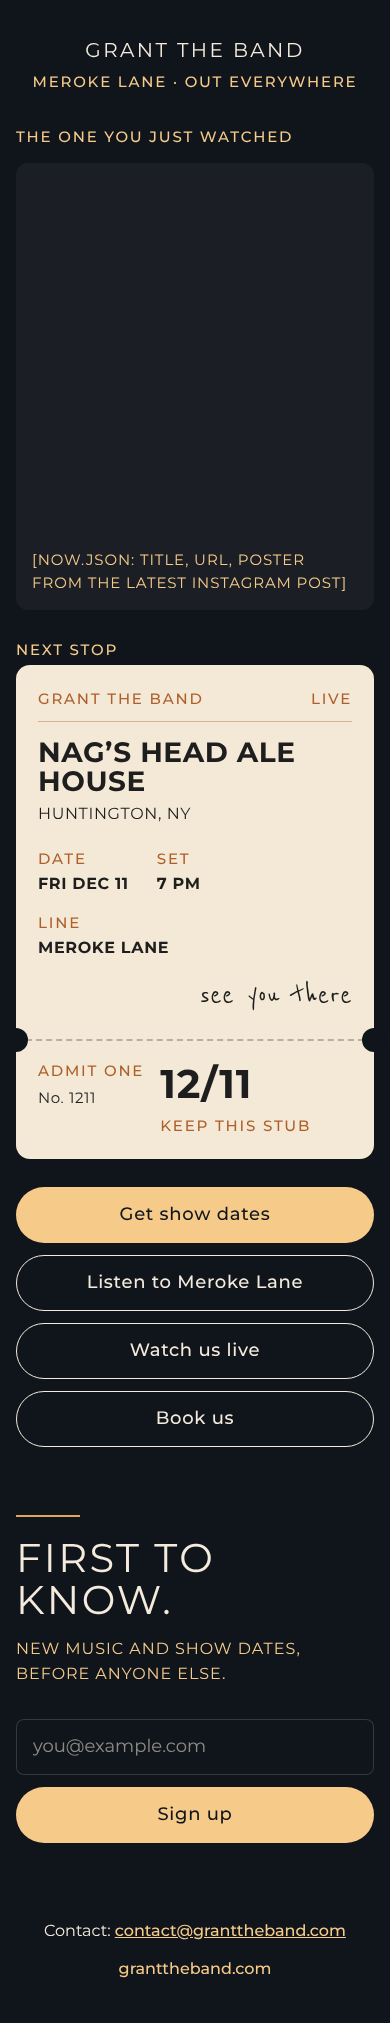
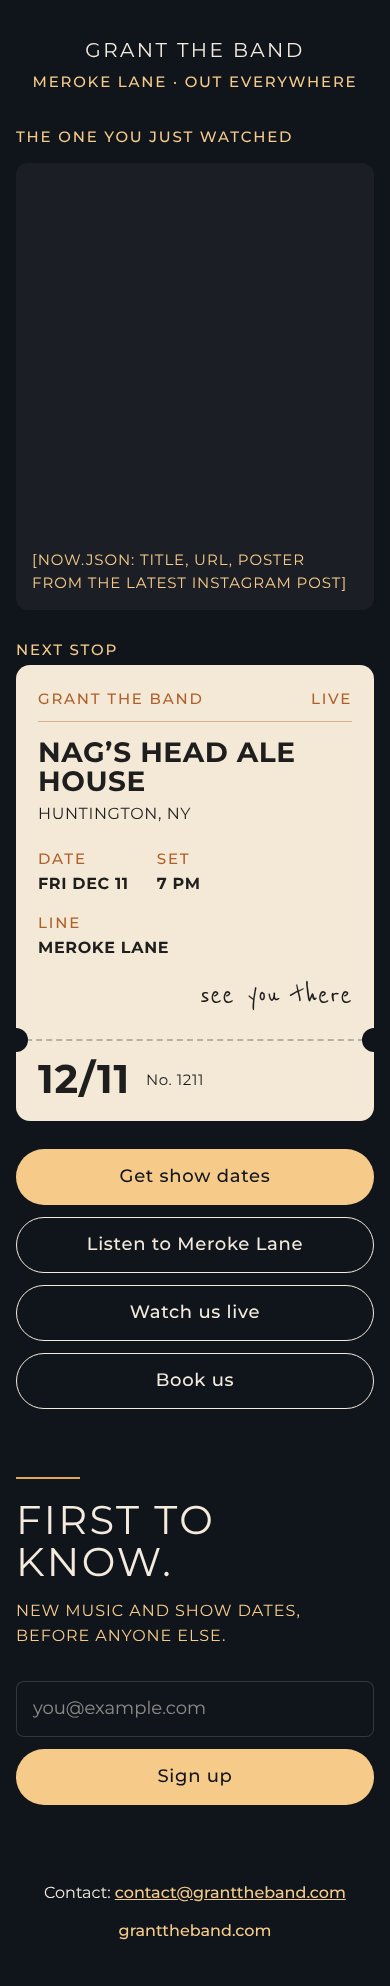
Ticket stub: drop ADMIT ONE and KEEP THIS STUB; keep the date, No. line and perforation
Claude-Session: https://claude.ai/code/session_01W6jjmem6fid2ThtCrqmyVk

diff --git a/CLAUDE.md b/CLAUDE.md
@@ -96,7 +96,7 @@ Deploy previews only (`CONTEXT === "deploy-preview"`): when there are no real up
 
 Desktop (900px+): tickets in a 2-column grid, each max 540px wide, 48px gap, rotation alternating -2deg / +1.5deg. Phones keep one column with the stub underneath.
 
-Each show renders as the "Next stop." ticket: cream paper `#F3E9D6`, rounded corners, perforated stub, labels in copper caps (GRANT THE BAND / LIVE / DATE / SET / LINE / ADMIT ONE / KEEP THIS STUB), venue large in ink `#1E1E1E`, town under it, "LINE: MEROKE LANE" on every ticket, date on the stub (MM/DD), handwritten "see you there" in Reenie Beanie (first ticket only, to keep one handwritten line per screen), -2deg rotation on desktop, 0 on phone. Section title "NEXT STOP.". Hidden when there are no dates.
+Each show renders as the "Next stop." ticket: cream paper `#F3E9D6`, rounded corners, perforated stub, labels in copper caps (GRANT THE BAND / LIVE / DATE / SET / LINE), venue large in ink `#1E1E1E`, town under it, "LINE: MEROKE LANE" on every ticket, the stub carries only the date (MM/DD) and the "No." line (no "ADMIT ONE" or "KEEP THIS STUB"), handwritten "see you there" in Reenie Beanie (first ticket only, to keep one handwritten line per screen), -2deg rotation on desktop, 0 on phone. Section title "NEXT STOP.". Hidden when there are no dates.
 
 ### Signature and credits
 
